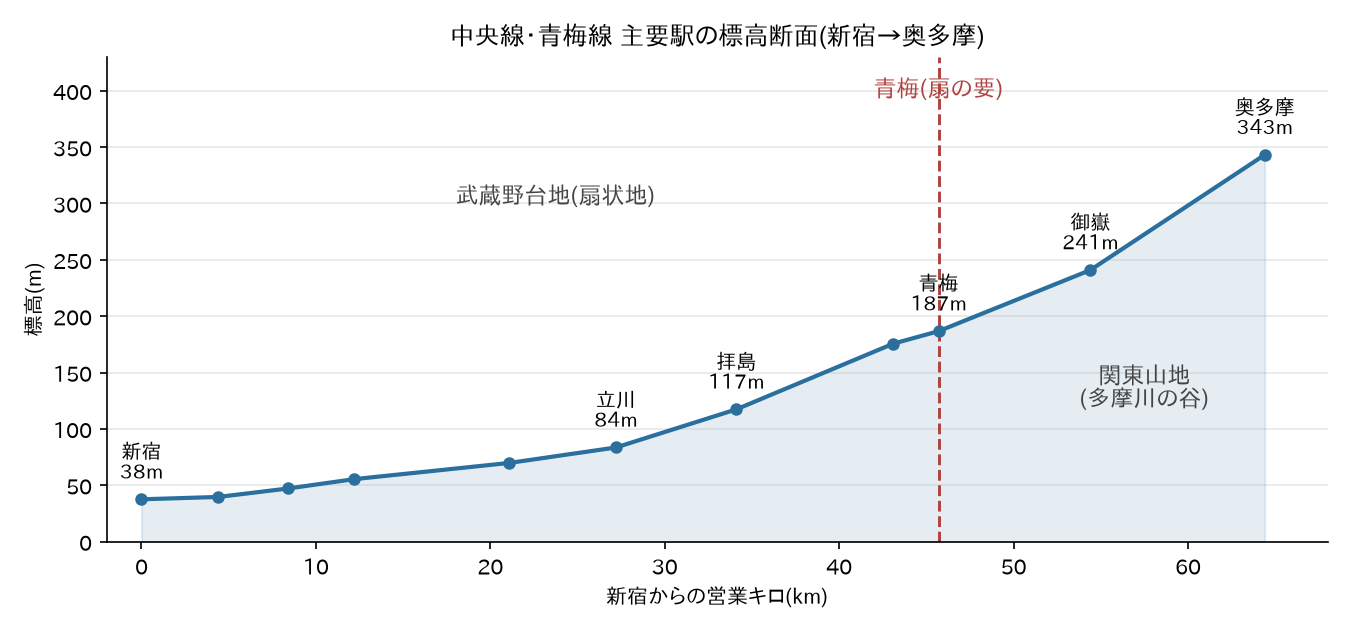
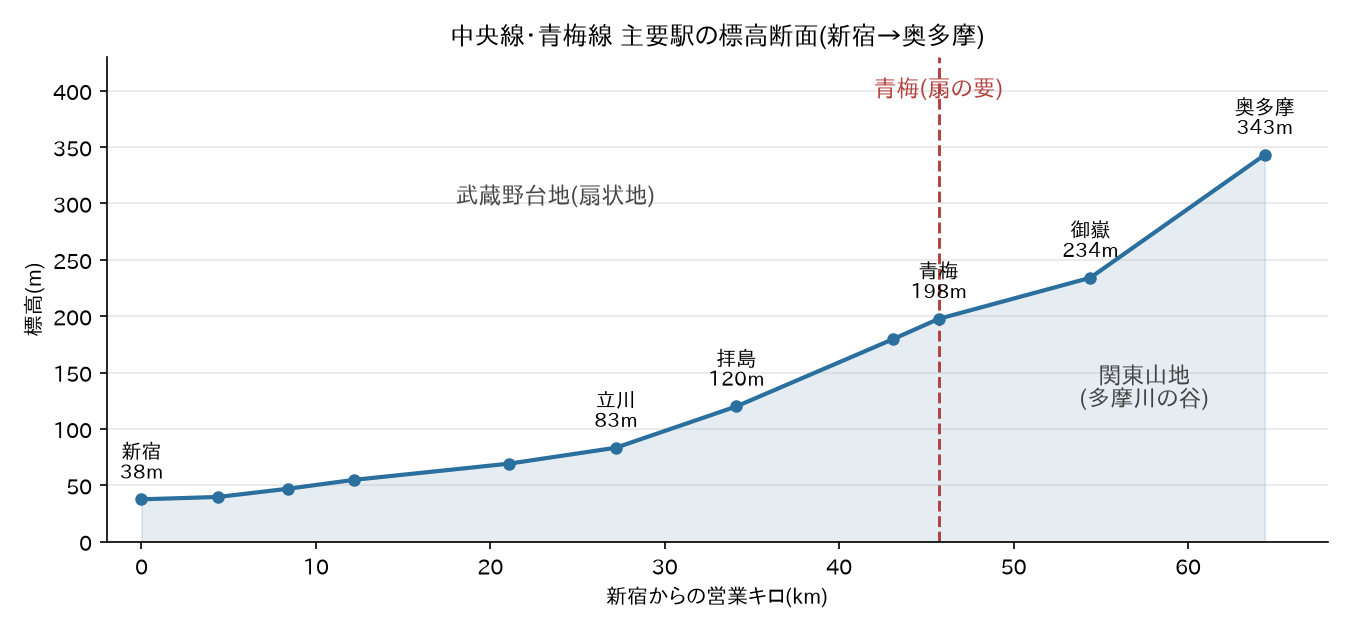
多摩章の標高の誤りを訂正(青梅駅197.6m・御嶽駅234.1mほか)
初版の標高測定で青梅の測定点が駅から約1.5km東にずれていた。
Wikipediaの駅座標と照合して再測定し、本文・図3・検証記録を訂正。

Claude-Session: https://claude.ai/code/session_01P29hCvUTXptwPRfQifDguu

diff --git a/text/japan/tama.md b/text/japan/tama.md
@@ -81,12 +81,12 @@
 
 ここで、地面の話をしなければならない。実は読者は、中央線に乗っている間じゅう、坂を上っている。
 
-標高を並べる。東京駅3.6メートル、新宿駅37.5メートル、立川駅83.5メートル、青梅駅186.7メートル。新宿から青梅まで、電車は気づかれないほどの勾配で、しかし一度も下ることなく、150メートル上る。この斜面には名前がある。武蔵野台地。太古の多摩川が、青梅を頂点にして砂利を撒き広げた、巨大な扇状地である。扇の要(かなめ)が青梅で、扇の紙の部分に、新宿も中野も立川も、つまり2節で見た市街地の染みが、そっくり載っている。
+標高を並べる。東京駅3.6メートル、新宿駅37.5メートル、立川駅83.3メートル、青梅駅197.6メートル。新宿から青梅まで、電車は気づかれないほどの勾配で、しかし一度も下ることなく、160メートル上る。この斜面には名前がある。武蔵野台地。太古の多摩川が、青梅を頂点にして砂利を撒き広げた、巨大な扇状地である。扇の要(かなめ)が青梅で、扇の紙の部分に、新宿も中野も立川も、つまり2節で見た市街地の染みが、そっくり載っている。
 
 図3: 新宿から奥多摩への上り坂(img/tama-profile.png)
-中央線・青梅線の主な駅の標高を、新宿からの営業キロ順に結んだ自作の断面図。新宿(37.5メートル)から立川、拝島とゆるやかに上った線が、青梅(186.7メートル)を過ぎると急に立ち上がり、御嶽(240.9メートル)、奥多摩(343.2メートル)へ駆け上がる。青梅までが扇状地の上り、青梅から先が山地の谷であることが、折れ線の角度の変化として見える。(標高は国土地理院の標高APIによる。自作の図)
+中央線・青梅線の主な駅の標高を、新宿からの営業キロ順に結んだ自作の断面図。新宿(37.5メートル)から立川、拝島とゆるやかに上った線が、青梅(197.6メートル)を過ぎると急に立ち上がり、御嶽(234.1メートル)、奥多摩(343.2メートル)へ駆け上がる。青梅までが扇状地の上り、青梅から先が山地の谷であることが、折れ線の角度の変化として見える。(標高は国土地理院の標高APIによる。自作の図)
 
-青梅から先で、地形は種類が変わる。台地が尽き、関東山地が始まる。青梅線は多摩川の谷底に張りつき、御嶽駅240.9メートル、終点の奥多摩駅343.2メートルへと登る。谷の奥、都の西北の隅には雲取山、2,017メートル。東京都には標高2,000メートルの土地がある。
+青梅から先で、地形は種類が変わる。台地が尽き、関東山地が始まる。青梅線は多摩川の谷底に張りつき、御嶽駅234.1メートル、終点の奥多摩駅343.2メートルへと登る。谷の奥、都の西北の隅には雲取山、2,017メートル。東京都には標高2,000メートルの土地がある。
 
 そして、気づいてほしい。2節の役所の線——市街地の染みの縁——は、扇の要とほぼ同じ場所にあった。偶然ではない。市街地とは、平らな土地に人が高密度で染み込んだ状態のことで、平らな土地はここで尽きるのである。国勢調査の線は、地形の線の清書に過ぎない。最初に線を引いたのは、役所ではなく多摩川である。
 

diff --git a/text/japan/tama-check.md b/text/japan/tama-check.md
@@ -39,7 +39,7 @@
   - 高齢化率: 檜原村53.4%、奥多摩町45.3%(2025年)——東京都の高齢者人口資料・地域医療資料(hokeniryo.metro / jmap)の検索結果で確認。本文は「65歳以上が半数を超える」(檜原)、「およそ53%/およそ45%」(注)と幅を持たせた。
 - 多摩地域の輪郭: 26市3町1村、人口約420万人(都の約3割)——東京都「多摩の魅力発信プロジェクト」の解説で確認。面積約1,160km²は多摩地域の標準的な数値(東京都の多摩振興資料)。「都のおよそ半分」は都総面積2,194km²比、「本土の西の3分の2」は本土(区部627km²+多摩)比。
 - 三多摩の移管(1893年、神奈川県→東京府): 東京都公文書館の解説の通説(玉川上水の水質・水源管理の一元化、自由民権運動対策説の併記)。「東京になってから133年」=2026−1893。
-- 標高: 国土地理院標高APIで各駅の駅前にあたる座標を測定(2026-09-01)。東京3.6/新宿37.5/中野39.6/荻窪47.1/吉祥寺55.4/国分寺69.8/立川83.5/拝島117.3/河辺175.6/青梅186.7/御嶽240.9/奥多摩343.2m(いずれもデータソース1mレーザ)。座標は駅前広場相当のため±数mの揺れはありうる。「新宿から青梅まで150メートル上る」は186.7−37.5≒149の丸め。
+- 標高: 国土地理院標高APIで測定(2026-09-01)。初版は目測の駅前座標で測ったが、地図の後工程でWikipediaの駅座標と照合したところ、青梅の測定点が駅から東に約1.5kmずれていたことが判明し、駅座標での再測定値に訂正した(同日)。訂正後の値: 東京3.6/新宿37.5/中野39.6/荻窪46.9/吉祥寺54.8/国分寺69.2/立川83.3/拝島119.9/河辺179.7/青梅197.6/御嶽234.1/奥多摩343.2m(いずれもデータソース1mレーザ)。奥多摩は駅前広場の測定値で、駅の公称標高343mと一致するためそのまま。座標は駅施設のどこを取るかで±数mの揺れはありうる。「新宿から青梅まで160メートル上る」は197.6−37.5≒160の丸め。図3(tama-profile.png)も訂正値で再作成した。
 - 営業キロ: 東京起点で新宿10.3・中野14.7・荻窪18.7・吉祥寺22.5・国分寺31.4・立川37.5km(Wikipedia「中央線快速」「吉祥寺駅」「国分寺駅」)。青梅線は立川起点で拝島6.9・河辺15.9・東青梅17.2・青梅18.5・御嶽27.2・奥多摩37.2km(Wikipedia「青梅線」)。新宿起点への換算で立川27.2・青梅45.7・御嶽54.4・奥多摩64.4km。プロフィール表の「46キロメートル」は45.7の丸め、「およそ1時間」は青梅特快・直通電車の標準所要の概数。
 - 武蔵野台地: 青梅を扇頂とする古多摩川の扇状地、東西約50km・南北約20km、青梅付近約180m→東縁約20m、関東ロームが覆う、玉川上水1653年——Wikipedia「武蔵野台地」とまっぷる編集部の解説記事、地理院地図の標高表示で確認。
 - 雲取山2,017m・東京都最高峰・山頂は奥多摩町(都県境): 国土地理院の標高値としてWikipedia・奥多摩町の登山案内の一致を確認。
